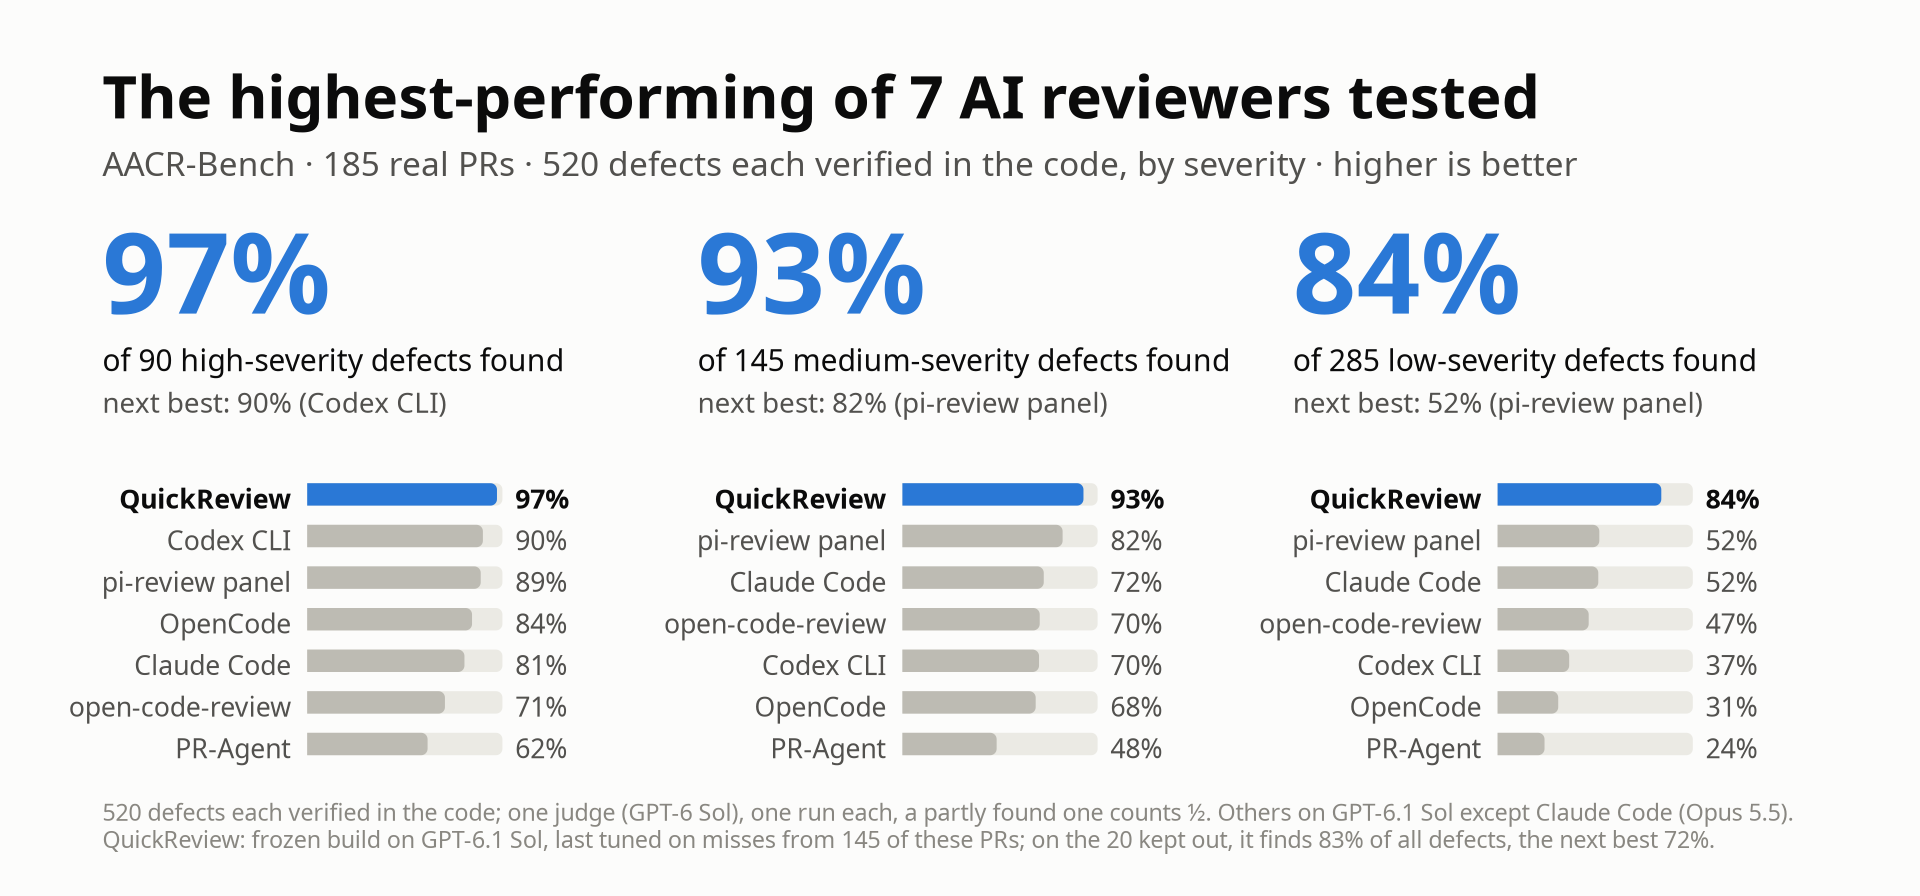
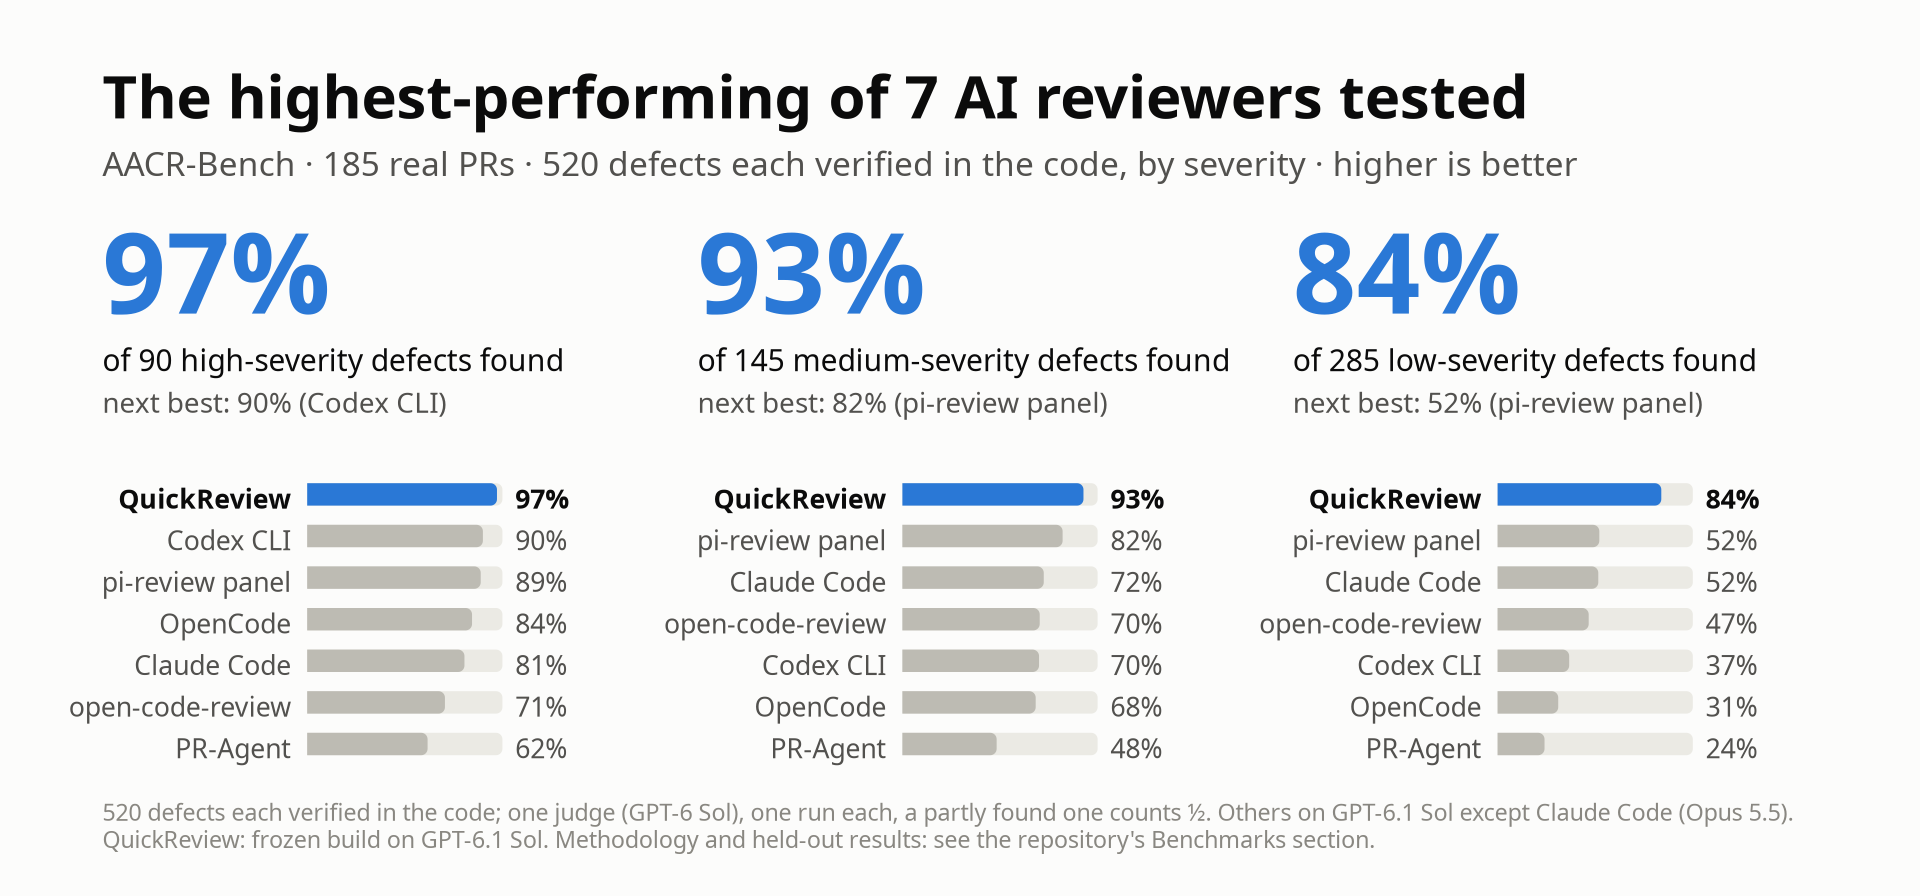
Move README benchmark tuning notes into methodology details (#17)
Move benchmark tuning notes below the README overview

diff --git a/bench/aacr/showcase/readme_charts.py b/bench/aacr/showcase/readme_charts.py
@@ -189,8 +189,7 @@ def fig_qodo(T):
 
 HERO_SOURCE = ("520 defects each verified in the code; one judge (GPT-6 Sol), one run each, a partly found one counts ½. "
                + OTHERS.replace("Other reviewers: all", "Others").replace(" (Claude Opus 5.5)", " (Opus 5.5)")
-               + "\nQuickReview: frozen build on GPT-6.1 Sol, last tuned on misses from 145 of these PRs; on the 20 kept out, "
-                 "it finds 83% of all defects, the next best 72%.")
+               + "\nQuickReview: frozen build on GPT-6.1 Sol. Methodology and held-out results: see the repository's Benchmarks section.")
 MARGIN = 2.0  # never headline a lead under 2 points
 
 
@@ -251,7 +250,7 @@ def fig_same_model(T):
                 p.text(x0 + width + 12, y, pct(100 * f / n), size=13, color=ink, weight=wt)
             y += 32
         y += 6
-    p.source("One judge (GPT-6 Sol), one run each, a partly found defect counts ½. Opus: 40 PRs QuickReview was tuned on; "
+    p.source("One judge (GPT-6 Sol), one run each, a partly found defect counts ½. "
              "Claude Code at its default effort.\nQuickReview: its frozen build on GPT-6.1 Sol, September builds on Opus "
              "and GPT-6 Sol. Codex CLI on GPT-6 Sol: as first run, at medium, without the PR text.")
     return p

diff --git a/README.md b/README.md
@@ -28,11 +28,9 @@ GPT-6.1 Sol finds **97% of the high-severity defects, 93% of the medium and
 84% of the low**; at each severity the best of the six other reviewers we ran
 finds 90%, 82% and 52%. On the same model it also finds more than the model
 maker's own reviewer at every severity: against Claude Code's `/code-review`
-on Claude Opus 5.5 and against Codex CLI on GPT-6.1 Sol. Its last changes were
-mined from its misses on 145 of the 185 PRs; on the 20 kept out, it finds 83%
-of all defects and the next best 72%. That recall costs more: about $2 and
-17.5 minutes per PR, where the other tools take $0.07–0.53 and 0.7–2.3
-minutes ([Benchmarks](#benchmarks)).
+on Claude Opus 5.5 and against Codex CLI on GPT-6.1 Sol. That recall costs
+more: about $2 and 17.5 minutes per PR, where the other tools take $0.07–0.53
+and 0.7–2.3 minutes ([Benchmarks](#benchmarks)).
 
 <p align="center">
   <img src="docs/media/lenses.gif" width="800"
@@ -109,8 +107,7 @@ finds more than the model maker's own reviewer on each of the three models
 where we ran both, at 11 to 20 times the cost ($3.24 against $0.16 per PR on
 Opus). This contrasts two tools, not a measured design effect: they also
 differ in budget and inputs, Claude Code ran `/code-review` at its default
-effort, the Opus and GPT-6 Sol rows are September builds of QuickReview, and
-the 40 Opus PRs are all PRs QuickReview was tuned on.
+effort, and the Opus and GPT-6 Sol rows are September builds of QuickReview.
 
 <picture>
   <source media="(prefers-color-scheme: dark)" srcset="docs/media/bench-martian-dark.png">
@@ -213,10 +210,12 @@ the table as directional.
 
 </details>
 
-**Held-out PRs.** The last tuning round was mined from misses on part of
-each benchmark. On the PRs kept out of it, the frozen build finds 83% of
-AACR-Bench's defects (20 PRs), ties qodo-extended-v2 on Martian's real
-goldens (43 of 52, 30 PRs), and on Qodo (31 PRs) reaches 60.3% recall and
+**Tuning and held-out PRs.** The last tuning round was mined from misses on
+part of each benchmark, including 145 of the 185 AACR-Bench PRs. The 40 PRs
+in the Opus comparison were used to tune its September build. On the PRs
+kept out of the last tuning round, the frozen build finds 83% of AACR-Bench's
+defects (20 PRs), against the next best 72%, ties qodo-extended-v2 on Martian's
+real goldens (43 of 52, 30 PRs), and on Qodo (31 PRs) reaches 60.3% recall and
 F1 53.0, level with qodo-exhaustive's 51.3.
 
 **Read more.** Two papers carry the method, every table and the threats to
